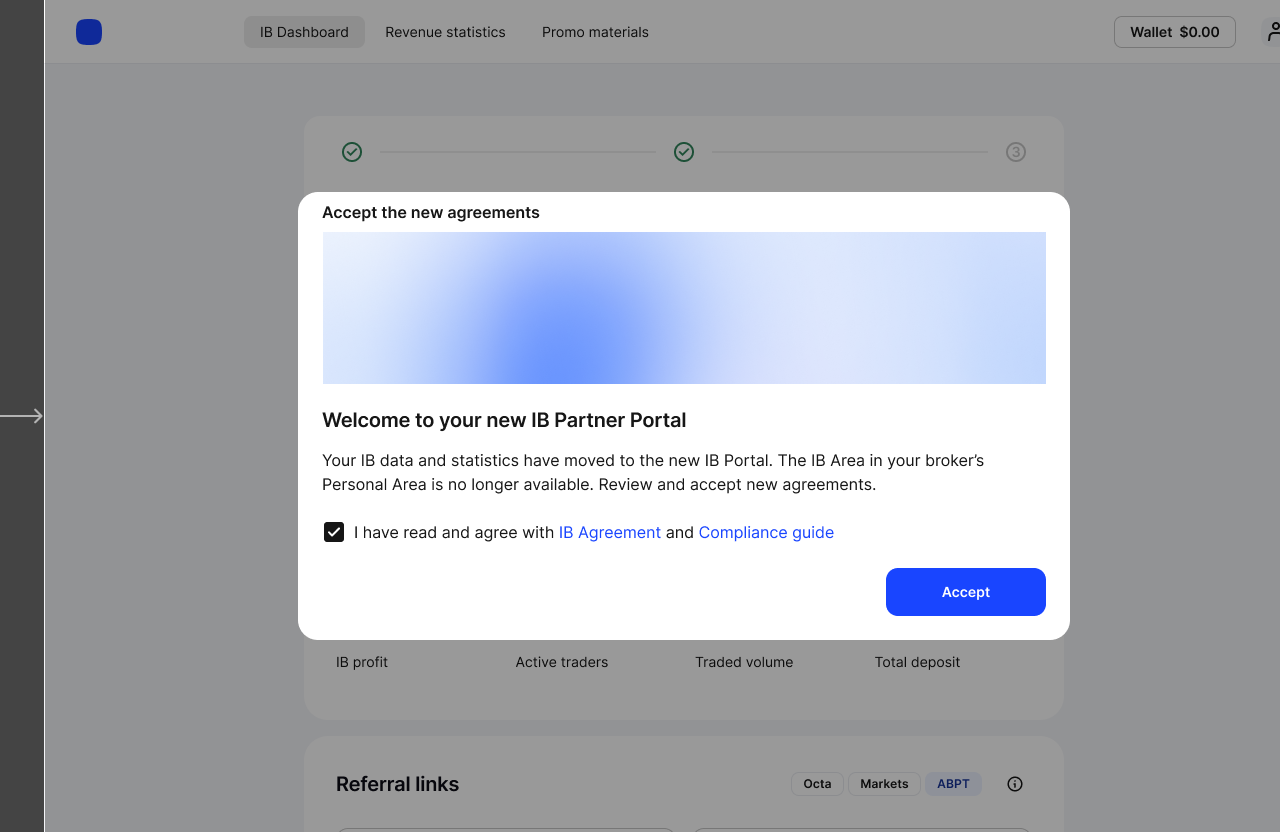
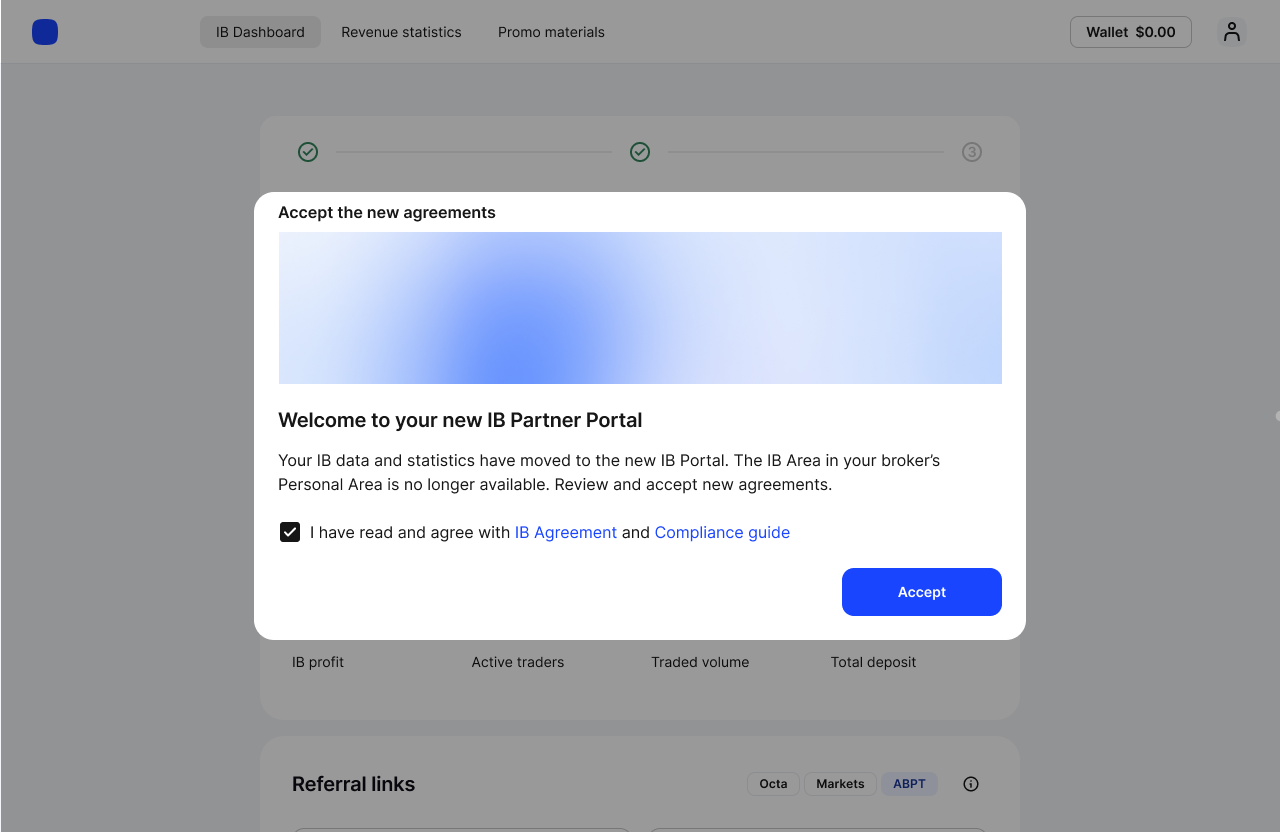
Simplify KYC migration case study
This change simplifies the existing-partner migration section in the KYC case study by replacing the interactive step selector with a clearer screen-led narrative: consent, sign-in, and continuing in the new portal. It also updates the supporting CSS for the new layout and refreshes the migration dashboard image.

diff --git a/src/components/portfolio/KycCaseStudy.tsx b/src/components/portfolio/KycCaseStudy.tsx
@@ -1,17 +1,6 @@
 import { useRef, useState, type MouseEvent } from "react";
 import { Link } from "@tanstack/react-router";
-import {
-  ArrowLeft,
-  ArrowRight,
-  ArrowUpRight,
-  BadgeCheck,
-  Expand,
-  KeyRound,
-  LayoutDashboard,
-  LifeBuoy,
-  LockKeyhole,
-  Mail,
-} from "lucide-react";
+import { ArrowLeft, ArrowRight, ArrowUpRight, Expand, LockKeyhole } from "lucide-react";
 import { Dialog, DialogContent, DialogTitle, DialogDescription } from "@/components/ui/dialog";
 import type { CaseWithMedia } from "@/lib/portfolio";
 import { SiteFooter, SiteHeader } from "./SiteHeader";
@@ -27,60 +16,6 @@ const chapters = [
   ["delivery", "Delivery & scope"],
   ["outcome", "Outcome & learnings"],
 ] as const;
-
-const migrationSteps = [
-  {
-    id: "notice",
-    label: "Screen 01",
-    title: "Migration notice",
-    icon: Mail,
-    partner:
-      "A current partner receives a clear message that their IB area is moving, with one action to begin the transition.",
-    operations:
-      "Segment existing accounts, prepare the communication and retain a recovery path for people who do not act in time.",
-  },
-  {
-    id: "sign-in",
-    label: "Screen 02",
-    title: "Log in or create access",
-    icon: KeyRound,
-    partner:
-      "The secure link opens a single-entry sign-in or sign-up state, depending on whether credentials already exist.",
-    operations:
-      "Use the entry point to connect the current relationship with the destination portal without assuming every partner starts from the same account state.",
-  },
-  {
-    id: "confirm",
-    label: "Screen 03",
-    title: "Confirm the account",
-    icon: BadgeCheck,
-    partner:
-      "The transition asks for the necessary confirmation before access is activated, including email confirmation where required.",
-    operations:
-      "Handle account matching, multiple-account situations and legal-entity scenarios as explicit branches rather than manual surprises.",
-  },
-  {
-    id: "portal",
-    label: "Screen 04",
-    title: "Enter the new portal",
-    icon: LayoutDashboard,
-    partner:
-      "After confirmation, the partner lands in the new IB area with a recognisable dashboard and their next required action visible.",
-    operations:
-      "Keep the migration state and any remaining onboarding requirements visible to both the partner and the review team.",
-  },
-  {
-    id: "recovery",
-    label: "Recovery state",
-    title: "Restore the route to access",
-    icon: LifeBuoy,
-    partner:
-      "If a partner misses the message after the old area is no longer available, they are directed back to a recoverable sign-in and support route.",
-    operations:
-      "Support can identify the transition state instead of treating a missed communication as a dead end.",
-  },
-] as const;
-type MigrationStep = (typeof migrationSteps)[number];
 
 const screens = {
   registration: {
@@ -172,14 +107,6 @@ type Screen = (typeof screens)[keyof typeof screens];
 const imagePath = (screen: Screen) =>
   `/images/projects/kyc/${screen.file}.${screen.file === "dashboard" ? "jpg" : "png"}`;
 
-const migrationScreens: Record<MigrationStep["id"], Screen> = {
-  notice: screens.migrationNotice,
-  "sign-in": screens.migrationLogin,
-  confirm: screens.migrationConfirmation,
-  portal: screens.migrationAgreement,
-  recovery: screens.migrationLogin,
-};
-
 function Journey({ after = false }: { after?: boolean }) {
   const steps = after
     ? [
@@ -270,10 +197,7 @@ function revisitSection(event: MouseEvent<HTMLAnchorElement>) {
 export function KycCaseStudy({ item }: { item: CaseWithMedia }) {
   const [zoom, setZoom] = useState<Screen | null>(null);
   const [actualSize, setActualSize] = useState(false);
-  const [selectedMigrationStep, setSelectedMigrationStep] = useState<MigrationStep["id"]>("notice");
   const opener = useRef<HTMLButtonElement | null>(null);
-  const activeMigrationStep = migrationSteps.find((step) => step.id === selectedMigrationStep)!;
-  const activeMigrationScreen = migrationScreens[selectedMigrationStep];
   function openScreen(screen: Screen, button: HTMLButtonElement) {
     opener.current = button;
     setActualSize(false);
@@ -572,111 +496,53 @@ export function KycCaseStudy({ item }: { item: CaseWithMedia }) {
 
             <section id="migration" className="kyc-section kyc-migration">
               <p className="kyc-eyebrow">06 / Existing partners</p>
-              <h2>Migrate current partners without leaving them behind.</h2>
-              <p>
-                The new journey also needed to work for people who were already using the IB area. I
-                mapped the transition from communication to first entry in the new portal, including
-                the operational branches behind it.
-              </p>
-              <p className="kyc-note">
-                Select a step to see the screen purpose, the partner-facing message and the work it
-                connects to.
-              </p>
-              <div className="kyc-migration-flow" aria-label="Existing partner migration flow">
-                <ol className="kyc-migration-steps">
-                  {migrationSteps.slice(0, 4).map((step, index) => {
-                    const Icon = step.icon;
-                    const active = selectedMigrationStep === step.id;
-                    return (
-                      <li key={step.id}>
-                        <button
-                          type="button"
-                          aria-pressed={active}
-                          className={active ? "is-active" : undefined}
-                          onClick={() => setSelectedMigrationStep(step.id)}
-                        >
-                          <span className="kyc-migration-step-label">{step.label}</span>
-                          <Icon size={19} aria-hidden="true" />
-                          <strong>{step.title}</strong>
-                        </button>
-                        {index < 3 && <ArrowRight aria-hidden="true" />}
-                      </li>
-                    );
-                  })}
-                </ol>
-                <div className="kyc-migration-detail" aria-live="polite">
-                  <div>
-                    <span className="kyc-eyebrow">{activeMigrationStep.label}</span>
-                    <h3>{activeMigrationStep.title}</h3>
-                  </div>
-                  <dl>
-                    <div>
-                      <dt>What the partner sees</dt>
-                      <dd>{activeMigrationStep.partner}</dd>
+              <h2>A clear route to the new partner portal.</h2>
+              <p>Consent to transfer data, sign in, and continue in the new IB portal.</p>
+              <ol className="kyc-migration-story">
+                {[
+                  {
+                    screen: screens.migrationNotice,
+                    title: "Agree to the move",
+                    text: "In the existing IB area, review the agreements and consent to transfer personal and IB data.",
+                    transition: "Consent processed → sign-in link by email",
+                  },
+                  {
+                    screen: screens.migrationLogin,
+                    title: "Follow the sign-in link",
+                    text: "Open the new IB program and sign in. Password recovery is available from this screen.",
+                    transition: "Complete access setup → enter the new portal",
+                  },
+                  {
+                    screen: screens.migrationAgreement,
+                    title: "Continue in the new portal",
+                    text: "Review the welcome message and accept the new agreements. IB data and statistics have moved with the partner.",
+                    transition: null,
+                  },
+                ].map((step, index) => (
+                  <li key={step.screen.file}>
+                    <div className="kyc-migration-story-copy">
+                      <span className="kyc-eyebrow">0{index + 1}</span>
+                      <h3>{step.title}</h3>
+                      <p>{step.text}</p>
                     </div>
-                    <div>
-                      <dt>What it connects to</dt>
-                      <dd>{activeMigrationStep.operations}</dd>
-                    </div>
-                  </dl>
-                </div>
-                <div className="kyc-migration-screen-stage" aria-live="polite">
-                  <div className="kyc-migration-screen-heading">
-                    <span>Linked screen</span>
-                    <p>
-                      This frame belongs to <strong>{activeMigrationStep.title}</strong> in the
-                      migration route.
-                    </p>
-                  </div>
-                  <ScreenFigure onOpen={openScreen} screen={activeMigrationScreen} />
-                </div>
-                <div className="kyc-migration-branch">
-                  <div>
-                    <span>Conditional route</span>
-                    <h3>Missed the communication?</h3>
-                    <p>
-                      The recovery state appears after the old IB area is unavailable. It returns
-                      the partner to sign-in and support rather than ending the journey.
-                    </p>
-                  </div>
-                  <button
-                    type="button"
-                    className={selectedMigrationStep === "recovery" ? "is-active" : undefined}
-                    aria-pressed={selectedMigrationStep === "recovery"}
-                    onClick={() => setSelectedMigrationStep("recovery")}
-                  >
-                    <LifeBuoy size={18} aria-hidden="true" /> Explore recovery state
-                  </button>
-                </div>
-              </div>
-              <div className="kyc-migration-connections">
-                <div>
-                  <span>Communication</span>
-                  <p>
-                    Explains the change and gives an action that opens the secure transition route.
-                  </p>
-                </div>
-                <div>
-                  <span>Identity & account state</span>
-                  <p>
-                    Connects existing partners, credentials and confirmation without treating all
-                    accounts alike.
-                  </p>
-                </div>
-                <div>
-                  <span>Portal & support</span>
-                  <p>
-                    Connects successful entry and recovery to a visible next step, not a silent
-                    access failure.
-                  </p>
-                </div>
+                    <ScreenFigure onOpen={openScreen} screen={step.screen} />
+                    {step.transition && (
+                      <div className="kyc-migration-transition">
+                        <ArrowRight size={18} aria-hidden="true" />
+                        <span>{step.transition}</span>
+                      </div>
+                    )}
+                  </li>
+                ))}
+              </ol>
+              <div className="kyc-migration-delayed">
+                <h3>Moving later?</h3>
+                <p>
+                  The original flow also covers reminders and re-entry after the old IB area closes.
+                </p>
               </div>
               <details className="kyc-migration-map">
-                <summary>View the full migration map</summary>
-                <p>
-                  A working overview of the migration frames, including the main journey and the
-                  routes used when a partner does not complete the transition in time.
-                </p>
+                <summary>See all screens & alternate paths</summary>
                 <ScreenFigure onOpen={openScreen} screen={screens.migrationMap} />
               </details>
             </section>

diff --git a/src/components/portfolio/kyc-case-study.css b/src/components/portfolio/kyc-case-study.css
@@ -949,3 +949,74 @@
     font-size: 13px;
   }
 }
+
+/* Screen-led migration narrative. */
+.kyc-migration-story {
+  list-style: none;
+  padding: 0;
+  margin: 40px 0 0;
+}
+.kyc-migration-story > li {
+  display: grid;
+  grid-template-columns: 0.65fr 1.35fr;
+  gap: 24px 32px;
+  align-items: start;
+}
+.kyc-migration-story-copy h3 {
+  margin: 8px 0 12px;
+}
+.kyc-migration-story-copy p,
+.kyc-migration-delayed p {
+  font-size: 15px;
+  line-height: 1.65;
+  color: var(--muted-foreground);
+}
+.kyc-migration-story .kyc-screen figcaption {
+  display: none;
+}
+.kyc-migration-transition {
+  grid-column: 1 / -1;
+  display: flex;
+  align-items: center;
+  gap: 12px;
+  padding: 12px 0 32px;
+  color: var(--muted-foreground);
+  font-size: 13px;
+}
+.kyc-migration-transition svg {
+  transform: rotate(90deg);
+  color: var(--primary);
+  flex-shrink: 0;
+}
+.kyc-migration-delayed {
+  margin-top: 32px;
+  border-left: 2px solid var(--border);
+  padding-left: 20px;
+}
+.kyc-migration-delayed h3 {
+  font-size: 16px;
+  margin-bottom: 8px;
+}
+.kyc-migration-map .kyc-screen {
+  margin-top: 20px;
+}
+.kyc-migration-map .kyc-screen-button img {
+  object-fit: contain;
+  height: auto;
+}
+.kyc-migration-map .kyc-screen-button {
+  max-height: none;
+  height: auto;
+}
+@media (max-width: 680px) {
+  .kyc-migration-story > li {
+    grid-template-columns: 1fr;
+    gap: 18px;
+  }
+  .kyc-migration-story {
+    margin-top: 28px;
+  }
+  .kyc-migration-transition {
+    padding-bottom: 24px;
+  }
+}
